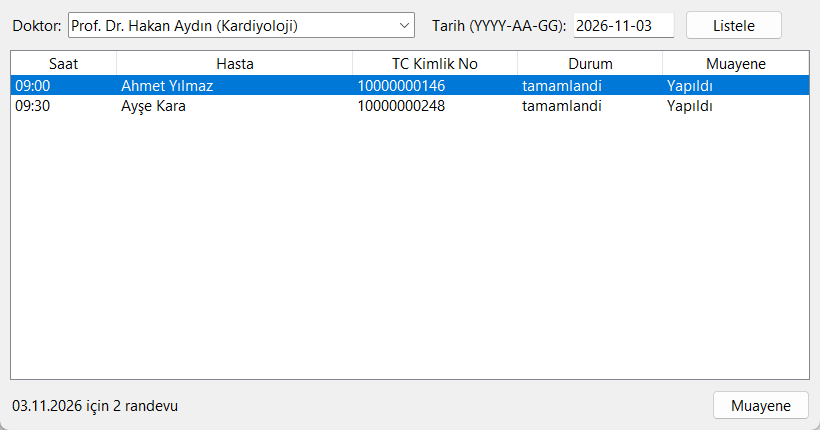
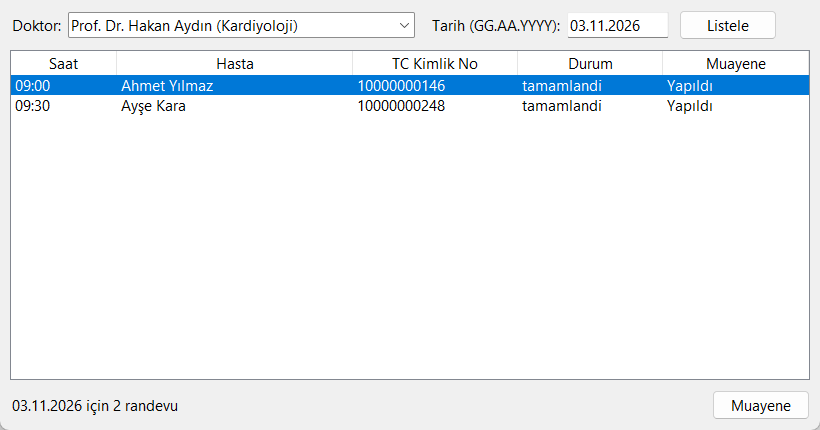
Demo senaryosu, 8b metni ve doktor paneli görüntüsü yeni tarih biçimine göre güncellendi

Changed region(s): [[0.5793, 0.0302, 0.7927, 0.0907], [0.8537, 0.0302, 0.9146, 0.0907]]

diff --git a/docs/sunum/demo_senaryosu_sude.md b/docs/sunum/demo_senaryosu_sude.md
@@ -40,7 +40,7 @@ Süre: yaklaşık 3–4 dakika
 |---|---|
 | Ana menüde **Doktor Paneli** | "Doktor burada kendi gününü görüyor." |
 | Doktor: **Prof. Dr. Hakan Aydın (Kardiyoloji)** | |
-| Tarih kutusunu sil, **2026-12-01** yaz, **Listele** | "1 Aralık'ta saat 09:00'da Emine Çetin'in randevusu var, durumu aktif, muayenesi yapılmamış." |
+| Tarih kutusunu sil, **01.12.2026** yaz, **Listele** | "1 Aralık'ta saat 09:00'da Emine Çetin'in randevusu var, durumu aktif, muayenesi yapılmamış." |
 | (İsteğe bağlı) | "Aynı saatte iptal edilmiş bir randevu daha var (randevu 19), ama iptal edilenler listede gösterilmiyor." |
 | **Emine Çetin** satırına çift tıkla | "Randevuya çift tıklayınca muayene ekranı açılıyor." |
 
@@ -76,7 +76,7 @@ Süre: yaklaşık 3–4 dakika
 
 | Sorun | Çözüm |
 |---|---|
-| Listede Emine Çetin yok ya da durumu "tamamlandi" | Veritabanı sıfırlanmamış. Sunumu bekletmeden **Prof. Dr. Murat Kaya**, **2026-12-02** ile devam et (randevu 22, Ali Erdem, 10:00). Diğer yedek seçenekler: Cem Şahin 12-03, Burak Çelik 12-04, Oğuz Polat 12-05. |
+| Listede Emine Çetin yok ya da durumu "tamamlandi" | Veritabanı sıfırlanmamış. Sunumu bekletmeden **Prof. Dr. Murat Kaya**, **02.12.2026** ile devam et (randevu 22, Ali Erdem, 10:00). Diğer yedek seçenekler: Cem Şahin 03.12.2026, Burak Çelik 04.12.2026, Oğuz Polat 05.12.2026. |
 | "Bu randevu için zaten bir muayene kaydı var." | Aynı şey: başka bir aktif randevu seç. |
 | Bağlantı hatası | PostgreSQL servisini başlat, `app/config.py`'deki şifreyi kontrol et. |
 

diff --git a/docs/rapor_metinleri/8b_arayuzler_sude.md b/docs/rapor_metinleri/8b_arayuzler_sude.md
@@ -16,7 +16,7 @@ Ana menüdeki "Bölümler ve Doktorlar" düğmesiyle açılır.
 
 Doktorun bir gündeki randevularını gördüğü ekran (FG-12).
 
-- Doktor listeden seçilir; listede doktorun unvanı ve bölümü de yazar. Tarih YYYY-AA-GG biçiminde girilir, açılışta bugünün tarihi yazılıdır.
+- Doktor listeden seçilir; listede doktorun unvanı ve bölümü de yazar. Tarih, hasta ve randevu ekranlarındaki gibi GG.AA.YYYY biçiminde girilir (YYYY-AA-GG de kabul edilir); açılışta bugünün tarihi yazılıdır.
 - "Listele" düğmesine basınca o günkü randevular saat sırasıyla gelir. İptal edilen randevular listede gösterilmez.
 - Her randevuda hastanın adı, TC kimlik numarası, randevu durumu ve muayenenin yapılıp yapılmadığı görünür. Görüntüde Prof. Dr. Hakan Aydın'ın 3 Kasım 2026'daki iki randevusu var, ikisinin de muayenesi yapılmış.
 - Tarih yanlış biçimde yazılırsa uyarı verilir (FG-27).
